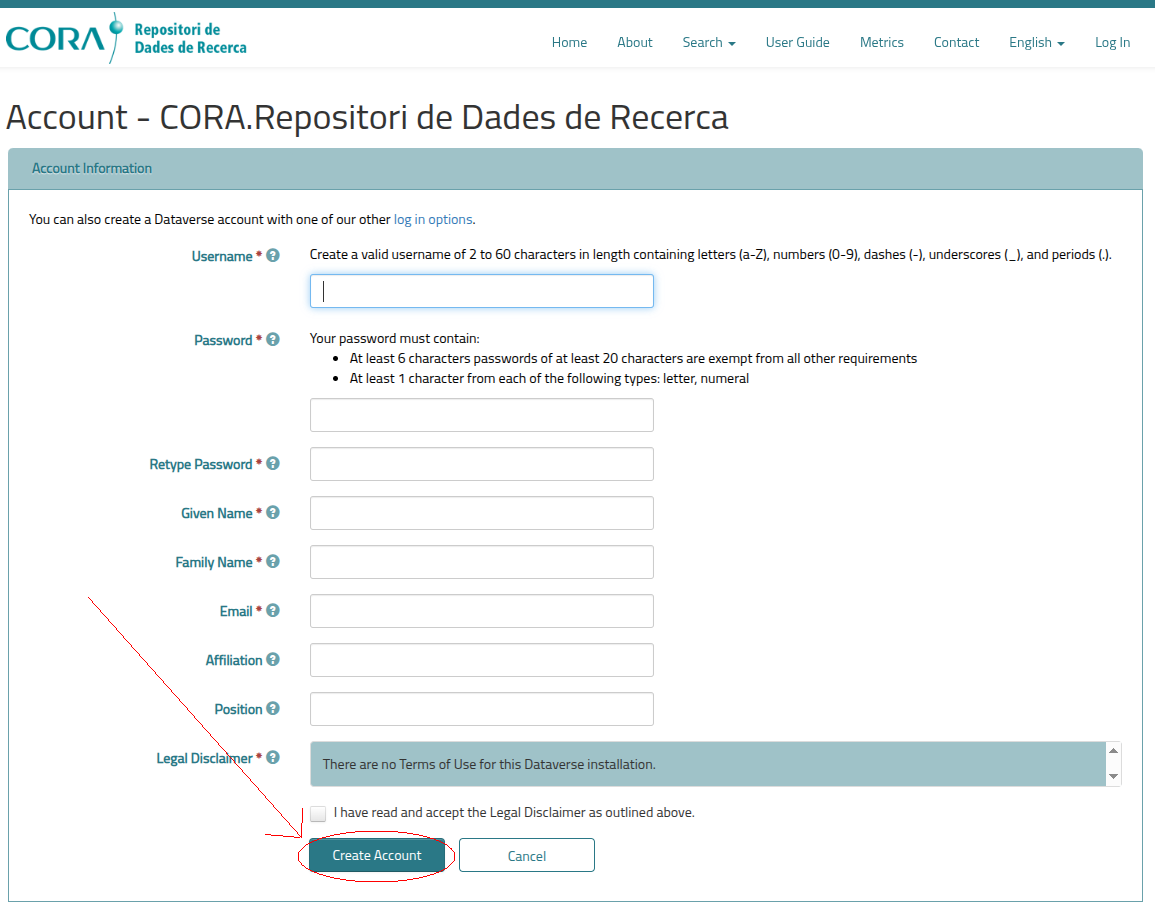
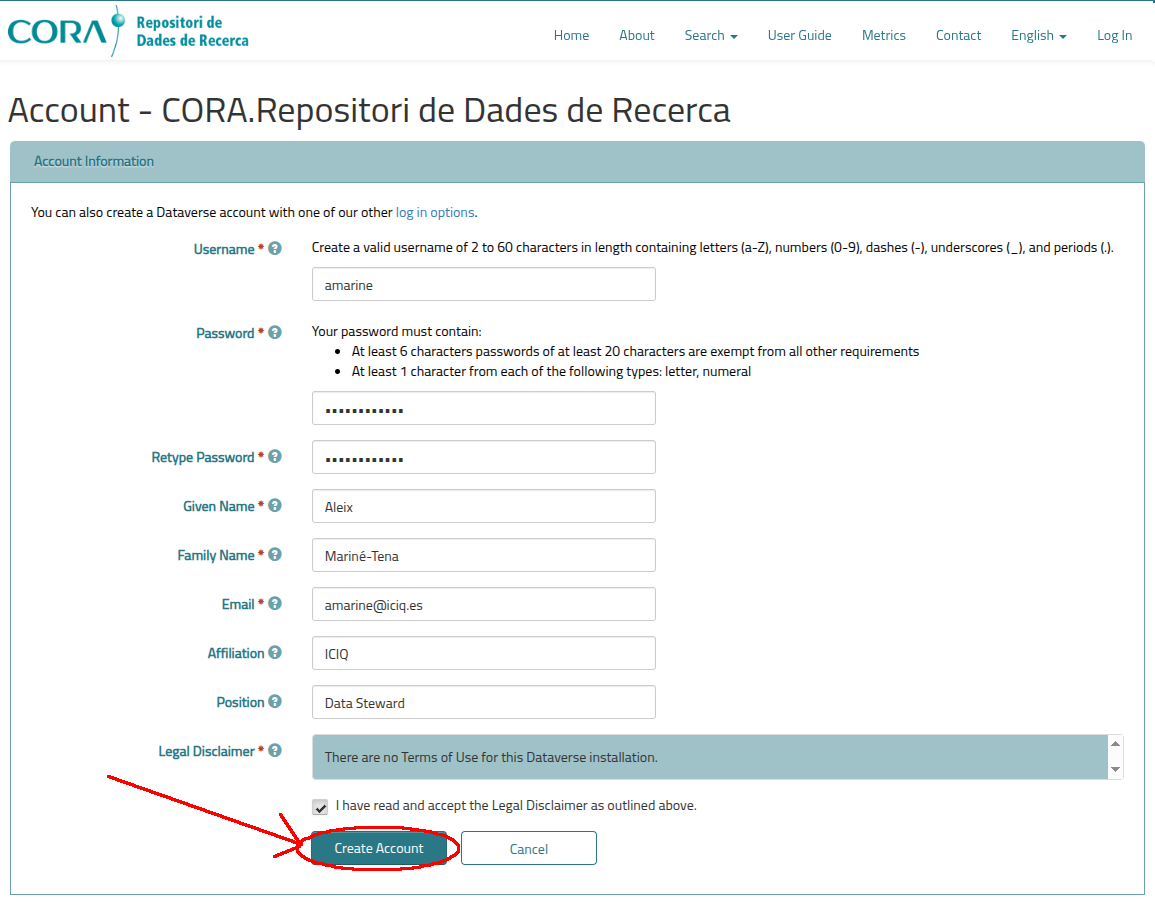
ADDED: Getting started guide for CORA.RDR, to create a user and add it to ICIQ. With no automated form

diff --git a/_posts/CORA.RDR/User-Guide/2025-10-16-Create-User.md b/_posts/CORA.RDR/User-Guide/2025-10-16-Create-User.md
@@ -7,6 +7,7 @@ parent: User Guide
 grand_parent: CORA.RDR
 ---
 
+## How to create a new user
 
 To access the repository you can access the URL [https://dataverse.csuc.cat/](https://dataverse.csuc.cat/).
 
@@ -14,7 +15,7 @@ You will be presented with a page similar to this:
 
 ![img.png](../../../assets/images/CORA.RDR/dataverse-main.png)
 
-You need to click on the "Log in" button on the right upper corner of the screen, which is is circled in red. 
+You need to click on the "Log in" button on the right upper corner of the previous screen, which is is circled in red. 
 
 After clicking that button you will be presented with this screen:
 
@@ -28,7 +29,7 @@ After clicking that text you will be presented with this form:
 
 You need to complete each field with the required value:
 
-* Username: A name for your user. It can be anything, even your name and surname.
+* Username: A name for your user. It can be anything, even your name and surname. *Save your username for later.*
 * Password: Do not use passwords that you use in other sites or with words that are in the dictionary please. Go to 
 [LastPass Password Generator](https://www.lastpass.com/es/features/password-generator), generate a password and save it
 into your password manager, such as [Google Passwords](https://passwords.google.com/).
@@ -37,14 +38,24 @@ into your password manager, such as [Google Passwords](https://passwords.google.
 * Family Name: Your surname. 
 * Email: Your ICIQ email.
 * Affiliation: You may write "ICIQ" as your affiliation. 
-* Position: The name of your job position at ICIQ. 
+* Position: The name of your job position at ICIQ.
 
-Finally, you need to check the checkbox with the text "I have read and accept the Legal Disclaimer as outlined above.".
-
-
-
+Finally, you need to check the checkbox with the text "I have read and accept the Legal Disclaimer as outlined above." 
+and click on the "Create Account" button. 
 
 ![img.png](../../../assets/images/CORA.RDR/dataverse-form.png)
+
+After you click on the "Create Account" button, you will see this screen, which means that your CORA.RDR account is 
+created.
+
+![img.png](../../../assets/images/CORA.RDR/dataverse-after-login.png)
+
+After creating it, you will need to do the actions described in 
+[the next article](https://iciq-dmp.github.io/CORA.RDR/User-Guide/Create-User) to 
+get your CORA.RDR account added into
+[ICIQ's Dataverse](https://dataverse.csuc.cat/dataverse/ICIQ) before using it.
+
+
 
 
 

diff --git a/_posts/CORA.RDR/User-Guide/2025-10-16-Add-User-ICIQ-Dataverse.md b/_posts/CORA.RDR/User-Guide/2025-10-16-Add-User-ICIQ-Dataverse.md
@@ -1,0 +1,35 @@
+---
+layout: default
+title:  Create User
+permalink: /CORA.RDR/User-Guide/Add-User-ICIQ-Dataverse
+nav_order: 2
+parent: User Guide
+grand_parent: CORA.RDR
+---
+
+## Add your user to ICIQ Dataverse
+The [ICIQ Dataverse](https://dataverse.csuc.cat/dataverse/ICIQ) is managed by 
+[ICIQ's Data Steward](mailto:amarine@iciq.es). 
+
+You need to request your user to be added into the ICIQ's CORA.RDR instance by answering 
+[this](https://iciq.sharepoint.com/:l:/s/digitalitzacio/FE9DhAXiz0NNu_F4AAh5nVcBVzAOW0XUpTe2IENWW0SI6Q?nav=ODgyM2NhYjUtOGRmMS00NmEyLThkYmQtYTUwOTg4YjYyZmM3) form.
+
+You just need to introduce:
+* Your username, that can be found in the "Account Information" section in CORA.RDR.
+* Your membership to a research group, which will be used to add you to that subinstance of CORA.RDR.
+* If you want to administer the instance: Check it if you want to have full control of the subinstance of your research
+group. Mark it if you are the group leader or the responsible to administer the instance. 
+* Notes: If you want to submit any other additional condition with your request. 
+
+After the process is complete, you will receive an email confirming your membership to the subinstance of your research 
+group.  
+
+*You can now start uploading your datasets.*
+
+If you have any more problem, you can contact [digitalization@iciq.es](mailto:digitalization@iciq.es).
+
+
+
+
+
+

diff --git a/_posts/CORA.RDR/User-Guide/2023-10-16-User-guide.md b/_posts/CORA.RDR/User-Guide/2023-10-16-User-guide.md
@@ -7,6 +7,11 @@ has_children: true
 parent: CORA.RDR
 ---
 
-This is the user guide. Here you will find the guides needed to know how to use the CORA.RDR platform if you are an 
+This is the user guide. Here you will find the guides needed to know how to use the CORA.RDR platform if you are a 
 user.
+
+# Getting started
+To get started you will need to follow these two articles:
+1. [The article to create a new user in CORA.RDR](https://iciq-dmp.github.io/CORA.RDR/User-Guide/Create-User).
+2. After that, follow [the article to add your user into the ICIQ Dataverse instance](https://iciq-dmp.github.io/CORA.RDR/User-Guide/Add-User-ICIQ-Dataverse).  
 
